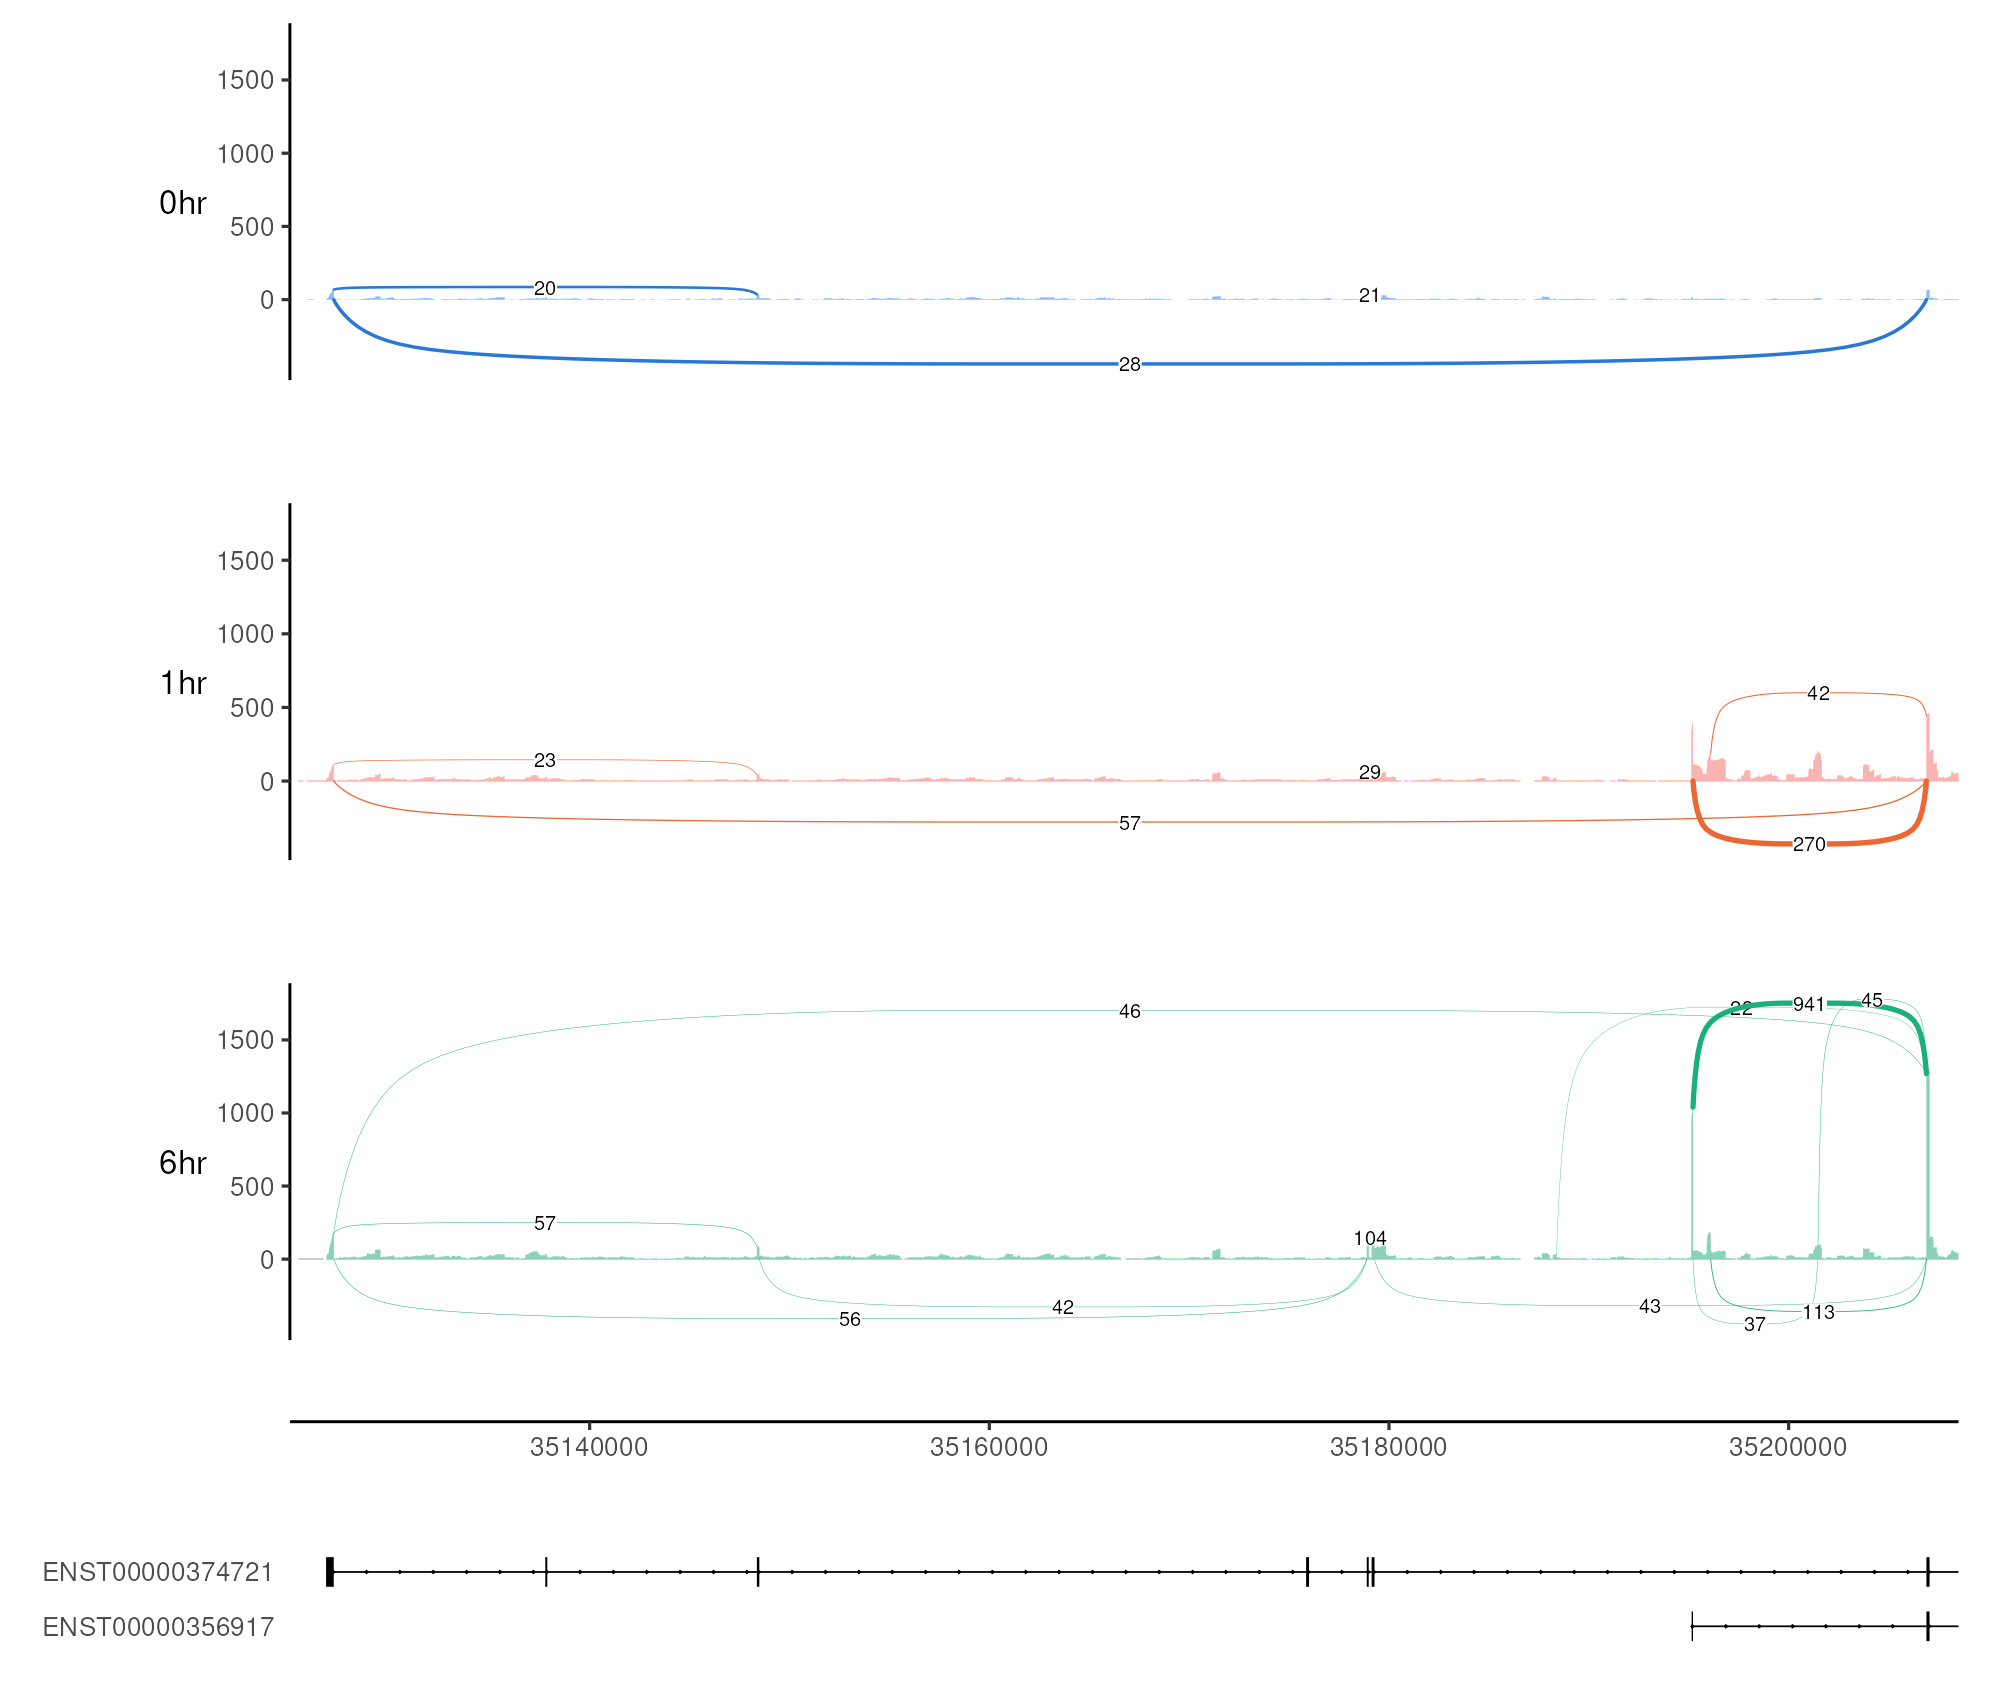
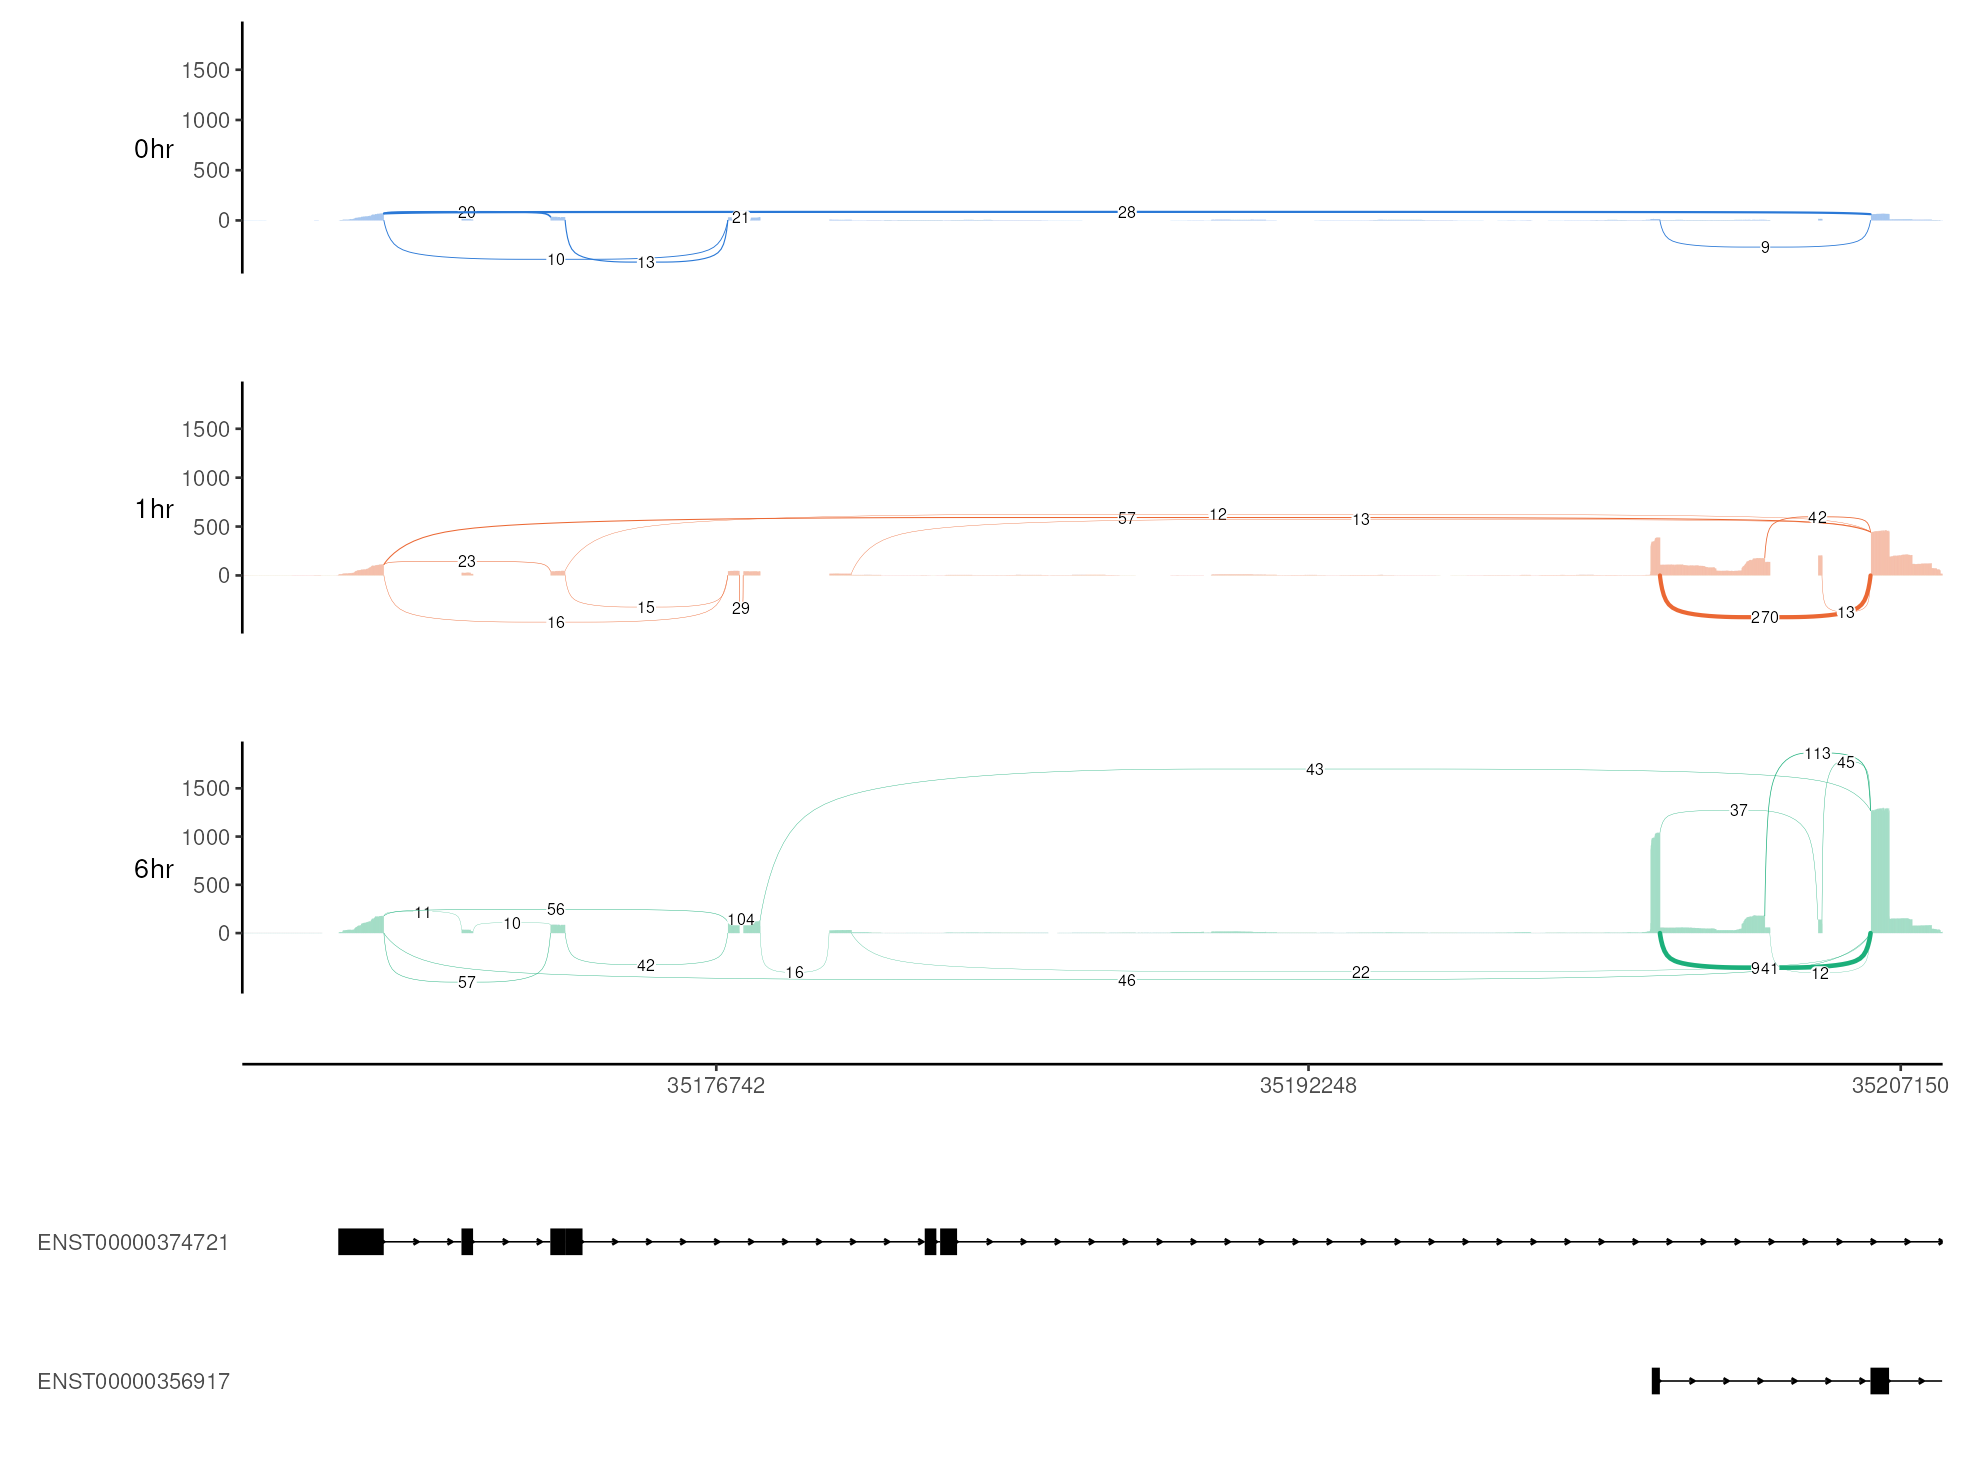
update

diff --git a/docs/splicing_candidates.html b/docs/splicing_candidates.html
@@ -536,15 +536,15 @@ project makes it easier to run your code on other machines.</p>
 <div class="panel panel-default">
 <div class="panel-heading">
 <p class="panel-title">
-<a data-toggle="collapse" data-parent="#workflowr-checks" href="#strongRepositoryversionstrongahrefhttpsgithubcomxsun1229longreadrnatree2fb3e030aac0c3a88d224ad1f64138834fe7bf72targetblank2fb3e03a">
+<a data-toggle="collapse" data-parent="#workflowr-checks" href="#strongRepositoryversionstrongahrefhttpsgithubcomxsun1229longreadrnatree0cff4f271cd00695e42a2586789d5e596bc2def0targetblank0cff4f2a">
 <span class="glyphicon glyphicon-ok text-success"
 aria-hidden="true"></span> <strong>Repository version:</strong>
-<a href="https://github.com/xsun1229/long_read_rna/tree/2fb3e030aac0c3a88d224ad1f64138834fe7bf72" target="_blank">2fb3e03</a>
+<a href="https://github.com/xsun1229/long_read_rna/tree/0cff4f271cd00695e42a2586789d5e596bc2def0" target="_blank">0cff4f2</a>
 </a>
 </p>
 </div>
 <div
[2 lines of base64/hex data omitted]
 class="panel-collapse collapse">
 <div class="panel-body">
 <p>
@@ -554,7 +554,7 @@ reproducibility.
 </p>
 <p>
 The results in this page were generated with repository version
-<a href="https://github.com/xsun1229/long_read_rna/tree/2fb3e030aac0c3a88d224ad1f64138834fe7bf72" target="_blank">2fb3e03</a>.
+<a href="https://github.com/xsun1229/long_read_rna/tree/0cff4f271cd00695e42a2586789d5e596bc2def0" target="_blank">0cff4f2</a>.
 See the <em>Past versions</em> tab to see a history of the changes made
 to the R Markdown and HTML files.
 </p>
@@ -615,6 +615,40 @@ Message
 </tr>
 </thead>
 <tbody>
+<tr>
+<td>
+Rmd
+</td>
+<td>
+<a href="https://github.com/xsun1229/long_read_rna/blob/0cff4f271cd00695e42a2586789d5e596bc2def0/analysis/splicing_candidates.Rmd" target="_blank">0cff4f2</a>
+</td>
+<td>
+XSun
+</td>
+<td>
+2026-09-27
+</td>
+<td>
+update
+</td>
+</tr>
+<tr>
+<td>
+html
+</td>
+<td>
+<a href="https://rawcdn.githack.com/xsun1229/long_read_rna/0cff4f271cd00695e42a2586789d5e596bc2def0/docs/splicing_candidates.html" target="_blank">0cff4f2</a>
+</td>
+<td>
+XSun
+</td>
+<td>
+2026-09-27
+</td>
+<td>
+update
+</td>
+</tr>
 <tr>
 <td>
 Rmd
@@ -908,16 +942,15 @@ points</strong>.</p>
 pooled across four donors within each timepoint. The junction of
 interest has 9, 270 and 941 reads at 0, 1 and 6 hours.</p>
 </div>
-<p><em>The short curve at the right connects 35,195,215–35,206,894. Its
-1-hour and 6-hour arc labels are 270 and 941. <strong>At 0 hours, 9 of
-the 60 reads at the shared acceptor support this same junction, but the
-plot hides its arc because 9 is below the minimum junction-read display
-threshold.</strong> The table and donor trend still include those reads;
-an absent arc here does not mean zero supporting reads. The 0-hour
-coverage also looks nearly flat because all three timepoints use the
-same vertical scale. Arc numbers are raw supporting-read counts; the
-denominator in the table includes every junction at the shared site,
-including alternatives that are not labeled here.</em></p>
+<p><em>The short curve at the right connects 35,195,215–35,206,894. It
+is labeled <strong>9 at 0 hours</strong>, <strong>270 at 1 hour</strong>
+and <strong>941 at 6 hours</strong>. We set the minimum junction count
+shown on this plot to <strong>9</strong>, so the baseline arc is
+visible; other low-count arcs also appear. The 0-hour coverage still
+looks nearly flat because all three timepoints use the same vertical
+scale. Arc numbers are raw supporting-read counts; the denominator in
+the table includes every junction at the shared site, including
+alternatives that are not labeled here.</em></p>
 </div>
 </div>
 <div id="ttll7-junction-bypassing-an-annotated-exon"
@@ -1111,7 +1144,9 @@ numerator and denominator table</a> provided here for direct checking.
 The BDNF plots and counts were generated by
 <code>7.sashimi/8.plot_bdnf_activity.py</code>,
 <code>7.sashimi/9.plot_bdnf_usage.R</code> and
-<code>7.sashimi/10.plot_bdnf_pooled_usage.R</code>.</p>
+<code>7.sashimi/10.plot_bdnf_pooled_usage.R</code>. The CREM sashimi
+plot with the 9-read baseline arc was generated by
+<code>7.sashimi/18.plot_crem_with_baseline.py</code>.</p>
 <p>Related pages: <a href="data_summary.html">data summary</a>, <a
 href="exon_structure.html">exon structure</a>, and <a
 href="annotation_sqanti3.html">annotation QC</a>.</p>
